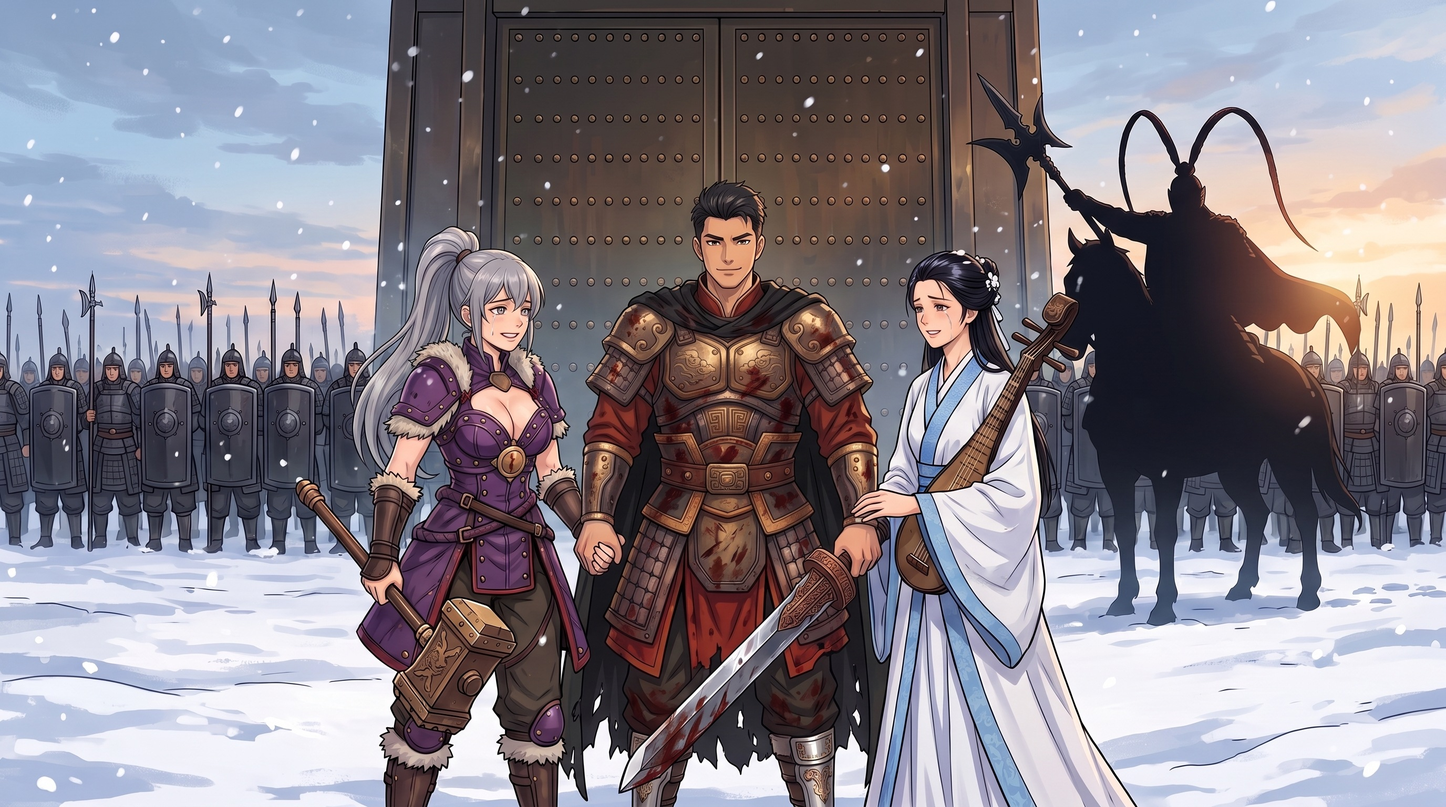
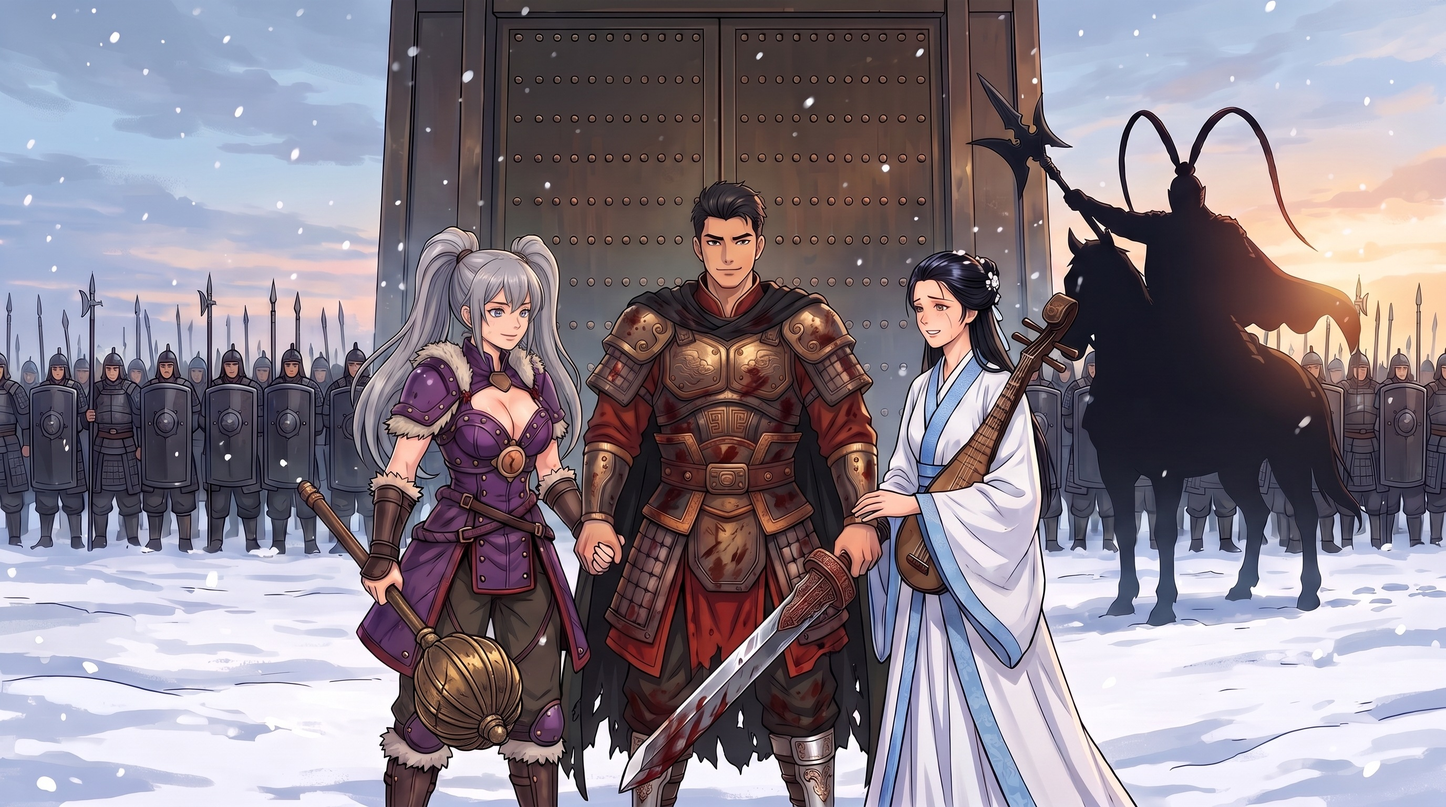
art: c4_tonggui 董白改双马尾、圆头铜瓜锤
Claude-Session: https://claude.ai/code/session_016SRjkfRmEpQgJPrbsiBEnx

diff --git a/docs/chapters/04-南线-挟天子.md b/docs/chapters/04-南线-挟天子.md
@@ -1667,7 +1667,7 @@
   - 提示：华阴以东的山口官道，午后：一员黑脸大将徐晃（三十多岁，魁梧，玄黑铁甲，开山大斧）翻身下马，把大斧横放在地上，单膝跪在路边；他身后的杨奉部兵卒放下了兵器；路中间停着一辆旧马车，车帘被主角掀起，车里探出小皇帝（十岁左右的男孩，只画孩子该有的样子，素色袍子，抱着一个小包袱）；荀攸（三十多岁的清瘦文士）站在两军之间
   - 参考立绘：主角 → `pics/source/generals/lord.jpg`；荀攸 → `pics/source/generals/xunyou.jpg`；徐晃 → `pics/source/generals/xuhuang.jpg`
 - `c4_tonggui` ✅ 已有
-  - 提示：结局三·同归：雪中黎明的长安城门，短发残破铜甲的主角握着孙坚的大刀，左边董白（成年）双锤满是缺口，右边蔡文姬（成年）抱着断弦的琴，三人都淡淡笑着；前方赤兔马上的吕布举戟的剪影，身后高顺的黑盾墙、哀婉
+  - 提示：结局三·同归：雪中黎明的长安城门，短发残破铜甲的主角握着孙坚的大刀，左边董白（成年，灰色双马尾、紫色皮甲）提着满是缺口的圆头铜瓜锤，右边蔡文姬（成年）抱着断弦的琴，三人都淡淡笑着；前方赤兔马上的吕布举戟的剪影，身后高顺的黑盾墙、哀婉
   - 参考立绘：主角 → `pics/source/generals/lord.jpg`；蔡文姬 → `pics/source/generals/caiwenji.jpg`；高顺 → `pics/source/generals/gaoshun.jpg`；孙坚 → `pics/source/generals/sunjian.jpg`；董白 → `pics/source/generals/dongbai.jpg`；吕布 → `pics/source/generals/lvbu.jpg`
 - `c6_huihe` ✅ 已有
   - 提示：会合洛阳：黎明的洛阳城门，虎皮披风的孙坚下马单膝跪在尘土里，面前是刚下破马车的小皇帝；吴夫人从人群里奔向主角；江东兵列阵

diff --git a/pics/ART-LOG.md b/pics/ART-LOG.md
@@ -1600,3 +1600,4 @@
 - [ ] 2026-11-10 battle `c5_niufu` ← c5_niufu_v1.jpg · ok
 - [ ] 2026-11-10 cg `c5_rescue` ← c5_rescue_v2.jpg · ok
 - [ ] 2026-11-10 cg `c5_rescue` ← c5_rescue_v3.jpg · ok
+- [ ] 2026-11-10 cg `c4_tonggui` ← c4_tonggui_v1.jpg · ok
